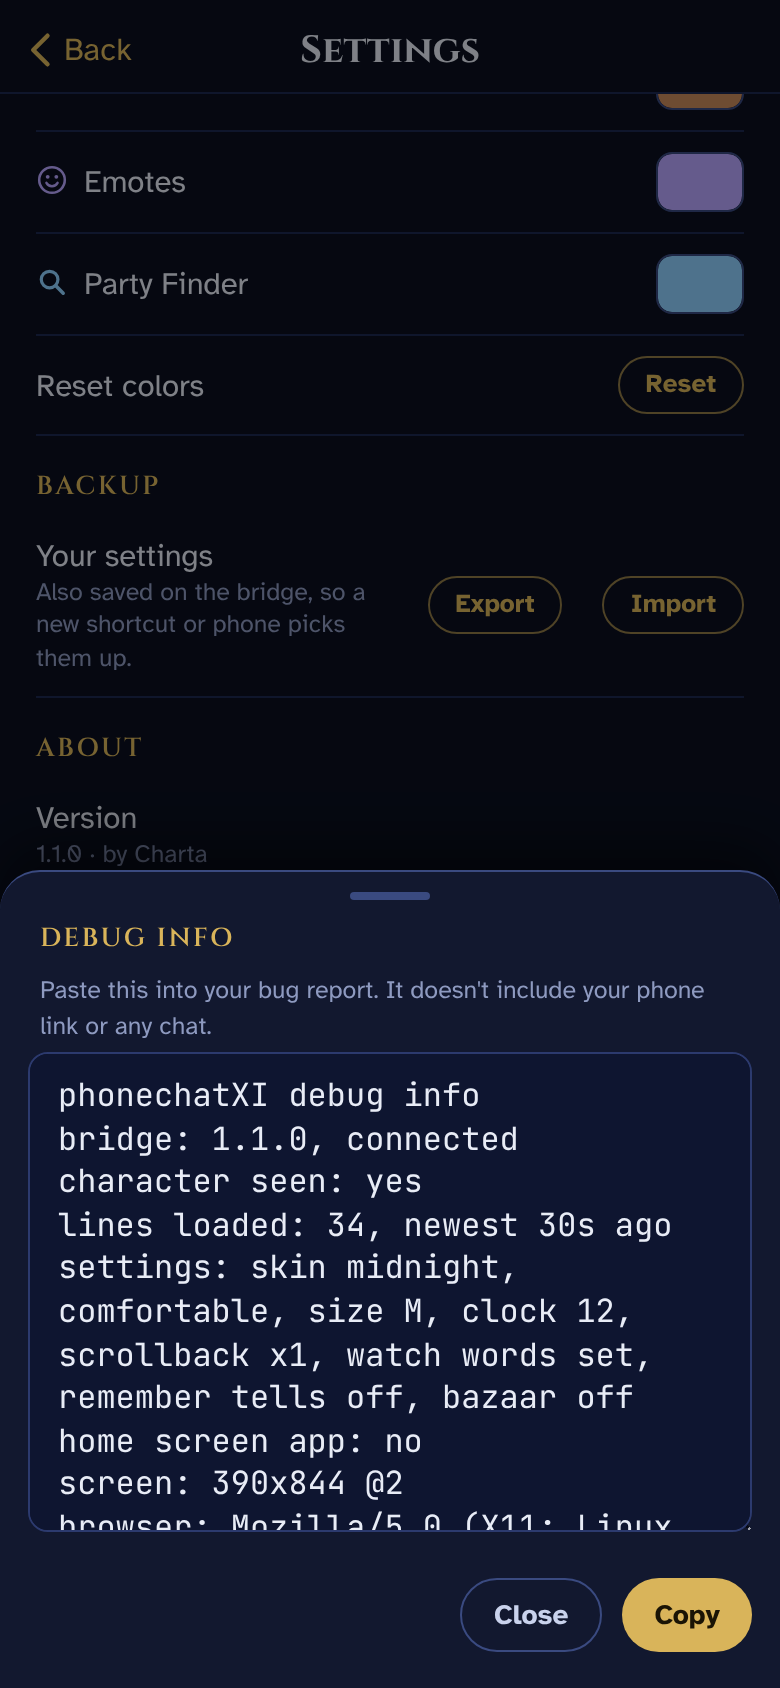
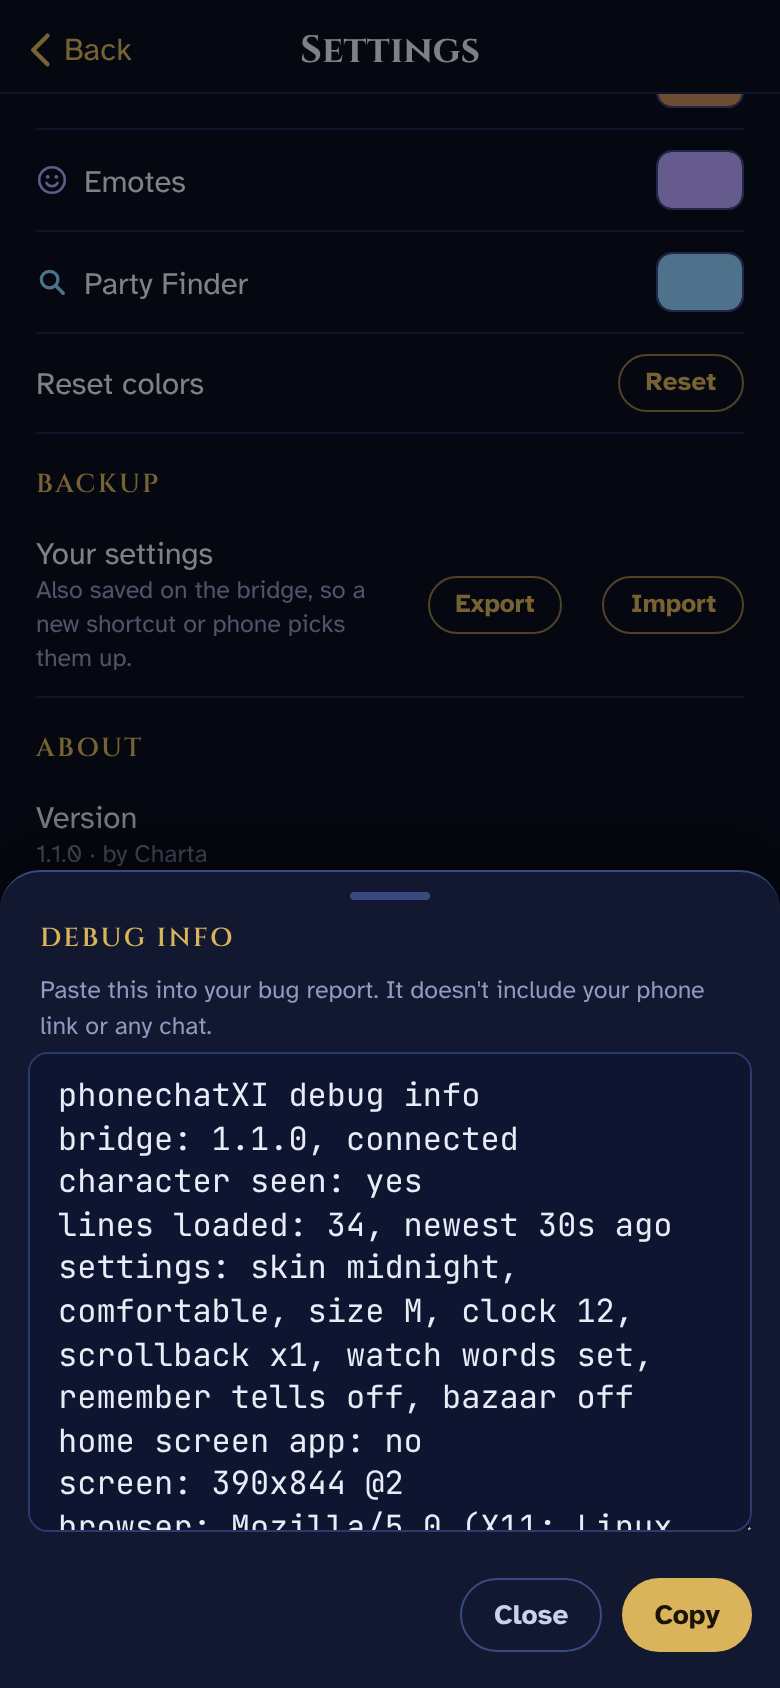
Mentions are for your name (up to 3 name-like words, not yell); keyboard doesn't capitalize unless turned on
Claude-Session: https://claude.ai/code/session_01PdNqd8TqYktQissLKSxrwy

diff --git a/bridge/index.html b/bridge/index.html
@@ -550,7 +550,7 @@ function toast(text) {
 // ------------------------------------------------------------------------------------------
 var DEFAULTS = {
   density: "comfortable", size: "M", calls: "highlight", tipSeen: false, tellsBan: false, hidden: [],
-  clock: "12", watch: "", bazaar: false, cseg: "emote", motdMin: false, seenAlerts: 0, scrollback: 1,
+  clock: "12", watch: "", bazaar: false, caps: false, cseg: "emote", motdMin: false, seenAlerts: 0, scrollback: 1,
   master: {ls1: true, ls2: true, party: true, tell: true, say: true, shout: true, unity: true, yell: false, emote: true, finder: true},
   views: [
     {id: "all", name: "All", ch: {ls1: true, ls2: true, party: true, tell: true, say: true, shout: true, unity: false, yell: false, emote: true, finder: true}},
@@ -700,17 +700,25 @@ function refreshStatus() {
 }
 
 var lsName = {}, lsMotd = {};
-// Mentions: watched words from Settings, whole words, any case.
-var watchRe = null, watchReG = null;
+// Mentions: your name or nicknames from Settings. Whole words, any case. Kept to 3 name-like
+// words (letters only, 2 to 15) so it stays a "someone said my name" feature, not a tracker.
+var WATCH_MAX = 3;
+var watchRe = null, watchReG = null, watchWords = [];
+function watchList(text) {
+  return (text || "").split(",").map(function (w) { return w.trim(); })
+    .filter(function (w) { return /^[A-Za-z]{2,15}$/.test(w); }).slice(0, WATCH_MAX);
+}
 function setWatch() {
-  var words = (S.watch || "").split(",").map(function (w) { return w.trim(); }).filter(function (w) { return w.length >= 2; });
+  var words = watchWords = watchList(S.watch);
+  var note = $("watchnote");
+  if (note) note.textContent = words.length ? "Watching: " + words.join(", ") : "Not watching anything yet.";
   var src = words.map(function (w) { return w.replace(/[.*+?^${}()|[\]\\]/g, "\\$&"); }).join("|");
   watchRe = words.length ? new RegExp("(^|[^A-Za-z0-9])(" + src + ")(?![A-Za-z0-9])", "i") : null;
   watchReG = words.length ? new RegExp("(^|[^A-Za-z0-9])(" + src + ")(?![A-Za-z0-9])", "gi") : null;
   msgs.forEach(function (m) { m._men = isMention(m); });
 }
 function isMention(m) {
-  return !!watchRe && m.dir !== "out" && !m.pending && CHAT_CH.indexOf(m.ch) >= 0 && m.ch !== "finder" && watchRe.test(m.body || "");
+  return !!watchRe && m.dir !== "out" && !m.pending && CHAT_CH.indexOf(m.ch) >= 0 && m.ch !== "finder" && m.ch !== "yell" && watchRe.test(m.body || "");
 }
 function markWatch(h) {
   return h.split(/(<[^>]+>)/).map(function (part, i) {
@@ -1155,7 +1163,13 @@ function buildComposers() {
     inp.addEventListener("focus", function () { document.body.classList.add("typing"); setTimeout(fitViewport, 50); setTimeout(pinPanes, 320); });
     inp.addEventListener("blur", function () { setTimeout(function () { if (!document.activeElement || document.activeElement.tagName !== "INPUT") document.body.classList.remove("typing"); fitViewport(); }, 80); });
   });
+  applyCaps();
   updateComposers();
+}
+// Most FFXI chat is typed lowercase, so the phone's keyboard doesn't capitalize unless you turn it on.
+// (An iPhone setting can still override this, and autocorrect may still turn "i" into "I".)
+function applyCaps() {
+  document.querySelectorAll('[data-comp]:not([data-comp="cmd"]) input').forEach(function (i) { i.setAttribute("autocapitalize", S.caps ? "sentences" : "off"); });
 }
 // FFXI chat lines are capped at 130 Shift-JIS bytes, prefix included. Shown as a countdown near the end.
 var LINE_BYTES = 130;
@@ -1594,7 +1608,7 @@ function renderAlerts() {
   $("vent").innerHTML = '<div class="sect">VENTURES</div>' + (h || '<div class="empty sm">No venture news yet.</div>');
 
   var men = msgs.filter(function (m) { return m._men; }).slice(-30).reverse();
-  $("mentions").innerHTML = '<div class="sect">MENTIONS</div>' + (!watchRe ? '<div class="empty sm">Add words to watch in Settings.</div>' :
+  $("mentions").innerHTML = '<div class="sect">MENTIONS</div>' + (!watchRe ? '<div class="empty sm">Add your name in Settings.</div>' :
     (men.length ? men.map(function (m) {
       return card(CH[m.ch].icon, "var(--" + m.ch + ", var(--soft))", esc(m.name || CH[m.ch].full), m.ts, '<div class="abody">' + bodyHtml(m) + "</div>");
     }).join("") : '<div class="empty sm">Nothing yet.</div>'));
@@ -1663,9 +1677,12 @@ function renderSettings() {
     '<div class="sect">CALLS</div>' +
     srow("When a call comes in", "", segs("calls", [["off", "Off"], ["highlight", "Highlight"], ["badge", "Badge"]], S.calls)) +
     '<div class="sect">ALERTS</div>' +
-    '<div class="srow col"><div class="m"><div>Words to watch</div><small>Marked in chat and listed in Alerts. Separate with commas.</small></div>' +
-    '<input class="field" id="watchin" placeholder="Charta, Char" autocomplete="off" autocapitalize="off" spellcheck="false" value="' + esc(S.watch || "") + '"></div>' +
+    '<div class="srow col"><div class="m"><div>Your name</div><small>Your name or nicknames, up to 3, letters only. Marked in chat and listed in Alerts. Separate with commas.</small></div>' +
+    '<input class="field" id="watchin" placeholder="Charta, Char" maxlength="60" autocomplete="off" autocapitalize="off" spellcheck="false" value="' + esc(S.watch || "") + '">' +
+    '<small id="watchnote" style="color:var(--mute)">' + (watchWords.length ? "Watching: " + esc(watchWords.join(", ")) : "Not watching anything yet.") + "</small></div>" +
     srow("Bazaar visits", "Listed in Alerts when someone browses your bazaar.", tog(S.bazaar, "bazaar")) +
+    '<div class="sect">TYPING</div>' +
+    srow("Capitalize first letter", "Off by default, since most people type lowercase in game.", tog(S.caps, "caps")) +
     '<div class="sect">PRIVACY</div>' +
     srow("Remember tells", "Last 50 lines per person, on the bridge. Nothing else is saved.", tog(status.save_tells, "save_tells")) +
     srow("Clear saved tells", "", '<button class="dangerbtn" data-act="clear">Clear</button>') +
@@ -1722,6 +1739,7 @@ $("settings").addEventListener("click", function (e) {
     var k = t.dataset.set;
     if (k.indexOf("m.") === 0) { S.master[k.slice(2)] = !S.master[k.slice(2)]; }
     else if (k === "bazaar") { S.bazaar = !S.bazaar; }
+    else if (k === "caps") { S.caps = !S.caps; applyCaps(); }
     else if (k === "save_tells") {
       api("/api/settings", {save_tells: !status.save_tells}).then(function (j) { if (j.ok) { status.save_tells = j.save_tells; render(); } else toast(j.error || "Could not change that."); });
       return;

diff --git a/CHANGELOG.md b/CHANGELOG.md
@@ -47,6 +47,8 @@ Chat
 - An emoticon button next to the chat box opens a row of text emoticons (`^^`, `:D`, `;)`, `=)`, `<_<`, `T_T` and more). Tapping one adds it to the box. It doesn't send.
 - Emoji turn into text emoticons as you type (👀 becomes `<_<`, 😀 becomes `:D`). Emoji were already stripped before sending, so this only changes what's left to send.
 - Mentions save as you type. Before, leaving the box with Back on iPhone lost them.
+- Mentions are for your name: up to 3 words, letters only, 2 to 15 characters each. Yell (trade spam) isn't checked.
+- The keyboard no longer capitalizes the first letter of a message, to match how people type in game. Turn it back on in Settings, Typing.
 - Only real items (`{{Item}}`) are linked. Auto-translate phrases are styled but not linked.
 - Party Finder ads are styled like the game's: the poster's name stands out and the ad is in italics.
 - 12-hour (default) or 24-hour clock.

diff --git a/README.md b/README.md
@@ -32,7 +32,8 @@ Needs Ashita v4 (the CatsEye launcher), Python 3.7 or newer (already on the Stea
 - A Tells tab with a thread per person.
 - Tap a name to start a tell, or a line to reply on its channel. Nothing sends until you press send.
 - Linked items (`{{Suppanomimi}}`) open a BG-Wiki search.
-- Mentions: words you pick, like your name, are highlighted in chat and collected in Alerts.
+- Mentions: your name or nicknames (up to 3) are highlighted in chat and collected in Alerts.
+- The keyboard doesn't capitalize the first letter, since most people type lowercase in game. You can turn it on in Settings.
 - The LS message of the day is pinned above chat.
 - An Emotes tab with the stock emotes, plus dances, chair poses and job emotes.
 - A Server tab for CatsEye `!` commands like `!points` and `!dailies`. The ones that change something ask first.
